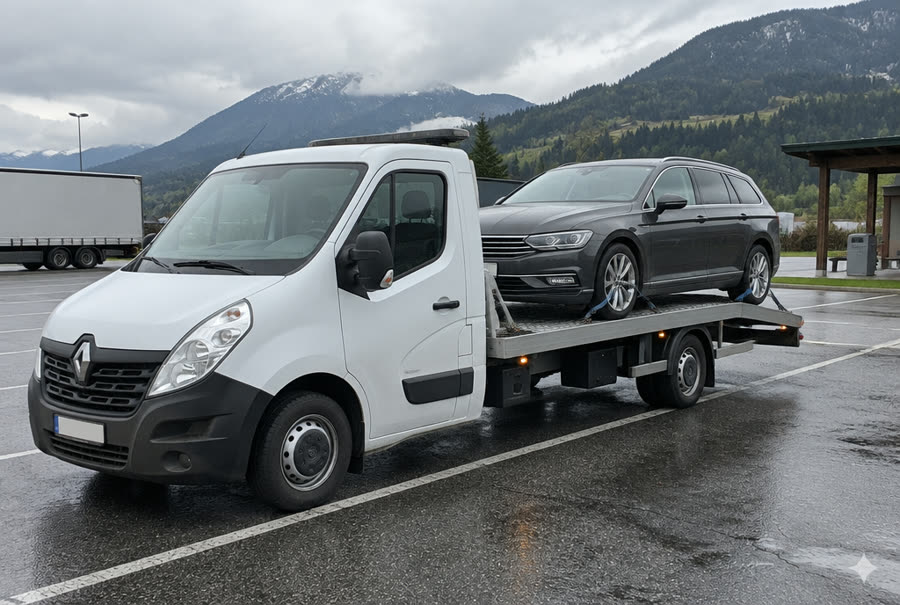
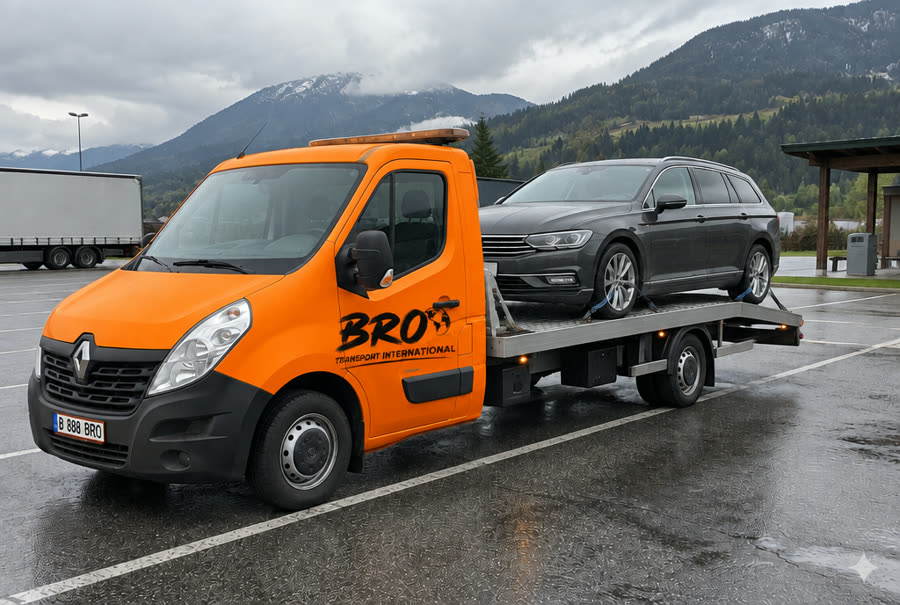
Mașini portocalii BRO cu numărul B 888 BRO, secțiune confort (încărcătoare, apă), adăugat Belgia

diff --git a/index.html b/index.html
@@ -3,14 +3,14 @@
 <head>
   <meta charset="utf-8">
   <meta name="viewport" content="width=device-width, initial-scale=1, viewport-fit=cover">
-  <title>BRO Transport International — Transport persoane, colete și auto România ↔ Austria, Germania, Olanda</title>
-  <meta name="description" content="Transport persoane, colete și autoturisme pe platformă între România, Austria, Germania și Olanda. De la adresă la adresă, plecări zilnice. Sună sau scrie pe WhatsApp: 0790 752 888.">
+  <title>BRO Transport International — Transport persoane, colete și auto România ↔ Austria, Germania, Olanda, Belgia</title>
+  <meta name="description" content="Transport persoane, colete și autoturisme pe platformă între România, Austria, Germania, Olanda și Belgia. De la adresă la adresă, plecări zilnice. Sună sau scrie pe WhatsApp: 0790 752 888.">
   <meta name="theme-color" content="#F26B0F">
   <link rel="canonical" href="https://brotransport.vercel.app/">
   <meta property="og:type" content="website">
   <meta property="og:locale" content="ro_RO">
   <meta property="og:title" content="BRO Transport International — România ↔ Europa, de la adresă la adresă">
-  <meta property="og:description" content="Persoane, colete și mașini pe platformă. România – Austria – Germania – Olanda. Tel/WhatsApp 0790 752 888.">
+  <meta property="og:description" content="Persoane, colete și mașini pe platformă. România – Austria – Germania – Olanda – Belgia. Tel/WhatsApp 0790 752 888.">
   <meta property="og:image" content="https://brotransport.vercel.app/img/og.jpg">
   <link rel="icon" href="img/favicon.png">
   <link rel="apple-touch-icon" href="img/favicon.png">
@@ -27,11 +27,11 @@
     "@context": "https://schema.org",
     "@type": "LocalBusiness",
     "name": "BRO Transport International",
-    "description": "Transport persoane, colete și autoturisme pe platformă între România, Austria, Germania și Olanda, de la adresă la adresă.",
+    "description": "Transport persoane, colete și autoturisme pe platformă între România, Austria, Germania, Olanda și Belgia, de la adresă la adresă.",
     "telephone": "+40790752888",
     "image": "https://brotransport.vercel.app/img/og.jpg",
     "url": "https://brotransport.vercel.app/",
-    "areaServed": ["România", "Austria", "Germania", "Olanda"],
+    "areaServed": ["România", "Austria", "Germania", "Olanda", "Belgia"],
     "sameAs": ["https://www.facebook.com/optimbro.88/", "https://www.instagram.com/optimbrotransport/"]
   }
   </script>
@@ -59,7 +59,7 @@
     <div class="hero-bg" aria-hidden="true"></div>
     <div class="wrap hero-in">
       <h1>Transport de la ușă la ușă între România și Europa</h1>
-      <p class="hero-sub">Persoane, colete și mașini pe platformă · România, Austria, Germania, Olanda · plecări zilnice</p>
+      <p class="hero-sub">Persoane, colete și mașini pe platformă · România, Austria, Germania, Olanda, Belgia · plecări zilnice</p>
 
       <form class="book" id="form" novalidate>
         <div class="book-tabs" role="radiogroup" aria-label="Ce transportăm">
@@ -97,6 +97,7 @@
         <button type="button" data-de="București" data-la="München">București → München</button>
         <button type="button" data-de="Pitești" data-la="Viena">Pitești → Viena</button>
         <button type="button" data-de="Cluj-Napoca" data-la="Amsterdam">Cluj → Amsterdam</button>
+        <button type="button" data-de="Iași" data-la="Bruxelles">Iași → Bruxelles</button>
         <button type="button" data-de="Stuttgart" data-la="Craiova">Stuttgart → Craiova</button>
       </div>
     </div>
@@ -117,14 +118,14 @@
     <div class="wrap">
       <div class="sec-hd">
         <h2>Ce transportăm</h2>
-        <p>Oameni, pachete sau mașini, între România și Austria, Germania, Olanda.</p>
+        <p>Oameni, pachete sau mașini, între România și Austria, Germania, Olanda, Belgia.</p>
       </div>
       <div class="svc">
         <article class="svc-card">
           <img src="img/interior-banchete.jpg" alt="Banchetele din microbuzul Renault Trafic" loading="lazy" width="900" height="675">
           <div class="svc-body">
             <h3>Persoane</h3>
-            <p>Microbuz de 8+1 locuri. Te luăm de acasă, cu bagajele tale, și te lăsăm la adresa unde mergi — fără autogară și fără schimbări.</p>
+            <p>Microbuz de 8+1 locuri, cu încărcătoare pentru telefon și apă la bord. Te luăm de acasă, cu bagajele tale, și te lăsăm la adresa unde mergi — fără autogară și fără schimbări.</p>
             <a href="#form" data-tip="Persoane" class="svc-link">Rezervă un loc <i class="bi bi-arrow-right"></i></a>
           </div>
         </article>
@@ -148,6 +149,36 @@
     </div>
   </section>
 
+  <!-- Confort -->
+  <section class="sec comfort-sec">
+    <div class="wrap">
+      <div class="sec-hd">
+        <h2>Confort pe tot drumul</h2>
+        <p>Drumul e lung, așa că ne-am gândit la tot ce contează pentru tine.</p>
+      </div>
+      <div class="comfort">
+        <article class="cf">
+          <p class="cf-tag">Minimul de confort</p>
+          <i class="bi bi-phone-vibrate cf-ic"></i>
+          <h3>Încărcătoare pentru telefon</h3>
+          <p>Ajungi cu telefonul încărcat. Avem încărcătoare la bord, ca să poți vorbi cu familia și să ai GPS-ul pornit până la destinație.</p>
+        </article>
+        <article class="cf cf-max">
+          <p class="cf-tag">Maximul de confort</p>
+          <i class="bi bi-cup-straw cf-ic"></i>
+          <h3>Apă la bord</h3>
+          <p>Apă pentru fiecare pasager, pe tot drumul. Nu trebuie să cauți benzinării — ai tot ce-ți trebuie în mașină.</p>
+        </article>
+        <article class="cf">
+          <p class="cf-tag">Pe drum</p>
+          <i class="bi bi-cup-hot cf-ic"></i>
+          <h3>Pauze și bagaje incluse</h3>
+          <p>Facem opriri regulate ca să te poți dezmorți, iar bagajele tale au loc în spate, separat de pasageri.</p>
+        </article>
+      </div>
+    </div>
+  </section>
+
   <!-- Mașini -->
   <section class="sec sec-grey" id="masini">
     <div class="wrap">
@@ -157,7 +188,7 @@
       </div>
       <div class="cars">
         <article class="car">
-          <div class="car-img"><img src="img/trafic-cut-m.webp" alt="Renault Trafic alb, 8+1 locuri" loading="lazy" width="720" height="484"></div>
+          <div class="car-img"><img src="img/trafic.jpg" alt="Renault Trafic portocaliu BRO, 8+1 locuri, numărul B 888 BRO" loading="lazy" width="900" height="600"></div>
           <div class="car-body">
             <h3>Renault Trafic</h3>
             <ul>
@@ -168,7 +199,7 @@
           </div>
         </article>
         <article class="car">
-          <div class="car-img"><img src="img/sharan-remorca.jpg" alt="Volkswagen Sharan gri cu remorcă acoperită" loading="lazy" width="900" height="600"></div>
+          <div class="car-img"><img src="img/sharan-remorca.jpg" alt="Volkswagen Sharan portocaliu BRO cu remorcă acoperită" loading="lazy" width="900" height="600"></div>
           <div class="car-body">
             <h3>Volkswagen Sharan + remorcă</h3>
             <ul>
@@ -228,10 +259,10 @@
       <div class="faq">
         <details open><summary>Cum rezerv un loc?</summary><p>Sună la 0790 752 888 sau scrie-ne pe WhatsApp. Ne spui de unde pleci, unde mergi și în ce zi, iar noi îți confirmăm locul, prețul și ora la care trecem să te luăm.</p></details>
         <details><summary>De unde mă luați și unde mă lăsați?</summary><p>Direct de la adresa ta până la adresa unde mergi. Nu trebuie să ajungi la autogară sau într-un punct de întâlnire.</p></details>
-        <details><summary>Pot trimite un colet fără să călătoresc?</summary><p>Da. Ridicăm coletul de la tine și îl predăm destinatarului, oriunde în România, Austria, Germania sau Olanda.</p></details>
+        <details><summary>Pot trimite un colet fără să călătoresc?</summary><p>Da. Ridicăm coletul de la tine și îl predăm destinatarului, oriunde în România, Austria, Germania, Olanda sau Belgia.</p></details>
         <details><summary>Cât costă?</summary><p>Prețul depinde de traseu și de ce transportăm. Îl afli exact la telefon sau pe WhatsApp, înainte de plecare.</p></details>
         <details><summary>Aduceți și mașini cumpărate din străinătate?</summary><p>Da. Preluăm autoturismul de la vânzător sau dealer și îl aducem pe platformă până la adresa ta, cu acoperire CMR conform condițiilor transportului.</p></details>
-        <details><summary>Cât de des plecați?</summary><p>Avem plecări zilnice pe ruta România – Austria – Germania – Olanda, în ambele sensuri. Sună-ne și îți spunem prima plecare disponibilă.</p></details>
+        <details><summary>Cât de des plecați?</summary><p>Avem plecări zilnice pe ruta România – Austria – Germania – Olanda – Belgia, în ambele sensuri. Sună-ne și îți spunem prima plecare disponibilă.</p></details>
       </div>
     </div>
   </section>
@@ -256,7 +287,7 @@
   <div class="wrap ft-in">
     <div class="ft-brand">
       <p class="ft-name">BRO Transport International</p>
-      <p>Transport persoane, colete și mașini pe platformă. România – Austria – Germania – Olanda, de la adresă la adresă.</p>
+      <p>Transport persoane, colete și mașini pe platformă. România – Austria – Germania – Olanda – Belgia, de la adresă la adresă.</p>
     </div>
     <div class="ft-col">
       <p class="ft-h">Contact</p>

diff --git a/assets/css/site.css b/assets/css/site.css
@@ -219,3 +219,16 @@ h1, h2, h3 { color: var(--ink); margin: 0; line-height: 1.2; letter-spacing: -.0
   .end-btns { grid-template-columns: 1fr; }
 }
 @media (prefers-reduced-motion: reduce) { html { scroll-behavior: auto; } }
+
+/* Confort la bord */
+.comfort-sec { padding-top: 0; }
+.comfort { display: grid; grid-template-columns: repeat(3, 1fr); gap: 20px; }
+.cf { border: 1px solid var(--line); border-radius: var(--r); padding: 24px 22px; background: #fff; }
+.cf-tag { margin: 0 0 14px; font-size: 13px; font-weight: 700; text-transform: uppercase; letter-spacing: .06em; color: var(--mut); }
+.cf-ic { font-size: 32px; color: var(--or); display: block; margin-bottom: 10px; }
+.cf h3 { font-size: 21px; font-weight: 700; }
+.cf p:last-child { margin: 8px 0 0; font-size: 15px; }
+.cf-max { background: var(--or); border-color: var(--or); color: #fff; }
+.cf-max .cf-tag { color: rgba(255, 255, 255, .85); }
+.cf-max .cf-ic, .cf-max h3 { color: #fff; }
+@media (max-width: 980px) { .comfort { grid-template-columns: 1fr; } }
